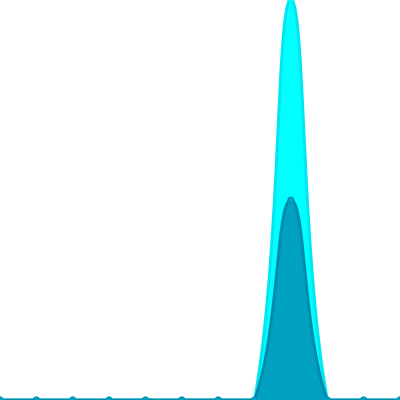
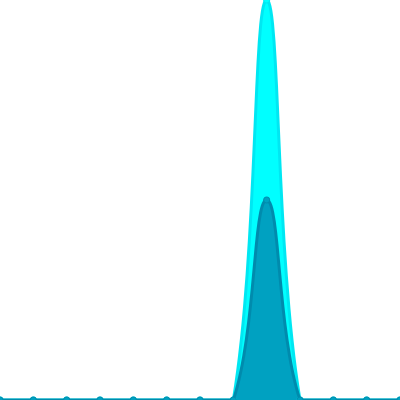
Update views

diff --git a/README.md b/README.md
@@ -26,7 +26,7 @@ The project created and maintained by [gayanvoice](https://github.com/gayanvoice
 			</a>
 		</td>
 		<td>
-			2025/2/27 12:35 AM UTC
+			2025/2/28 12:35 AM UTC
 		</td>
 		<td>
 			1
@@ -37,7 +37,7 @@ The project created and maintained by [gayanvoice](https://github.com/gayanvoice
 	</tr>
 </table>
 
-<small><i>Last updated on 2025/3/1 6:01 PM UTC</i></small>
+<small><i>Last updated on 2025/3/2 12:38 AM UTC</i></small>
 
 ## ✂Copy and 📋 Paste
 ### Total Views Badge

diff --git a/readme/888849578/year.md b/readme/888849578/year.md
@@ -20,6 +20,17 @@
 	</tr>
 	<tr>
 		<td>
+			<code>2025/3/1</code>
+		</td>
+		<td>
+			<code>0</code>
+		</td>
+		<td>
+			<code>0</code>
+		</td>
+	</tr>
+	<tr>
+		<td>
 			<code>2025/2/1</code>
 		</td>
 		<td>
@@ -153,7 +164,7 @@
 </table>
 
 </details>
-<small><i>Last updated on 2025/3/1 6:00 PM UTC</i></small>
+<small><i>Last updated on 2025/3/2 12:38 AM UTC</i></small>
 
 ## ✂Copy and 📋 Paste
 ### SVG Badge
